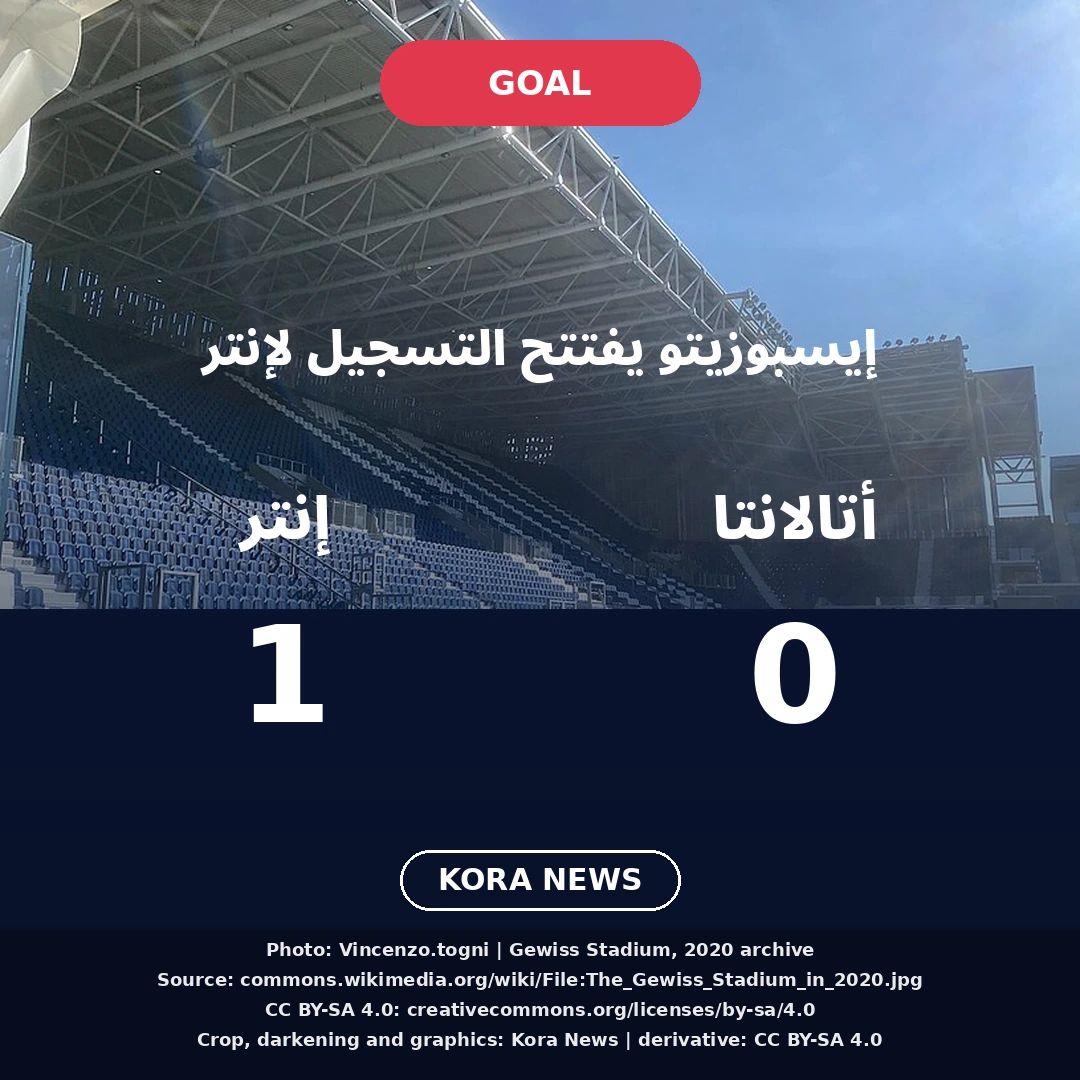
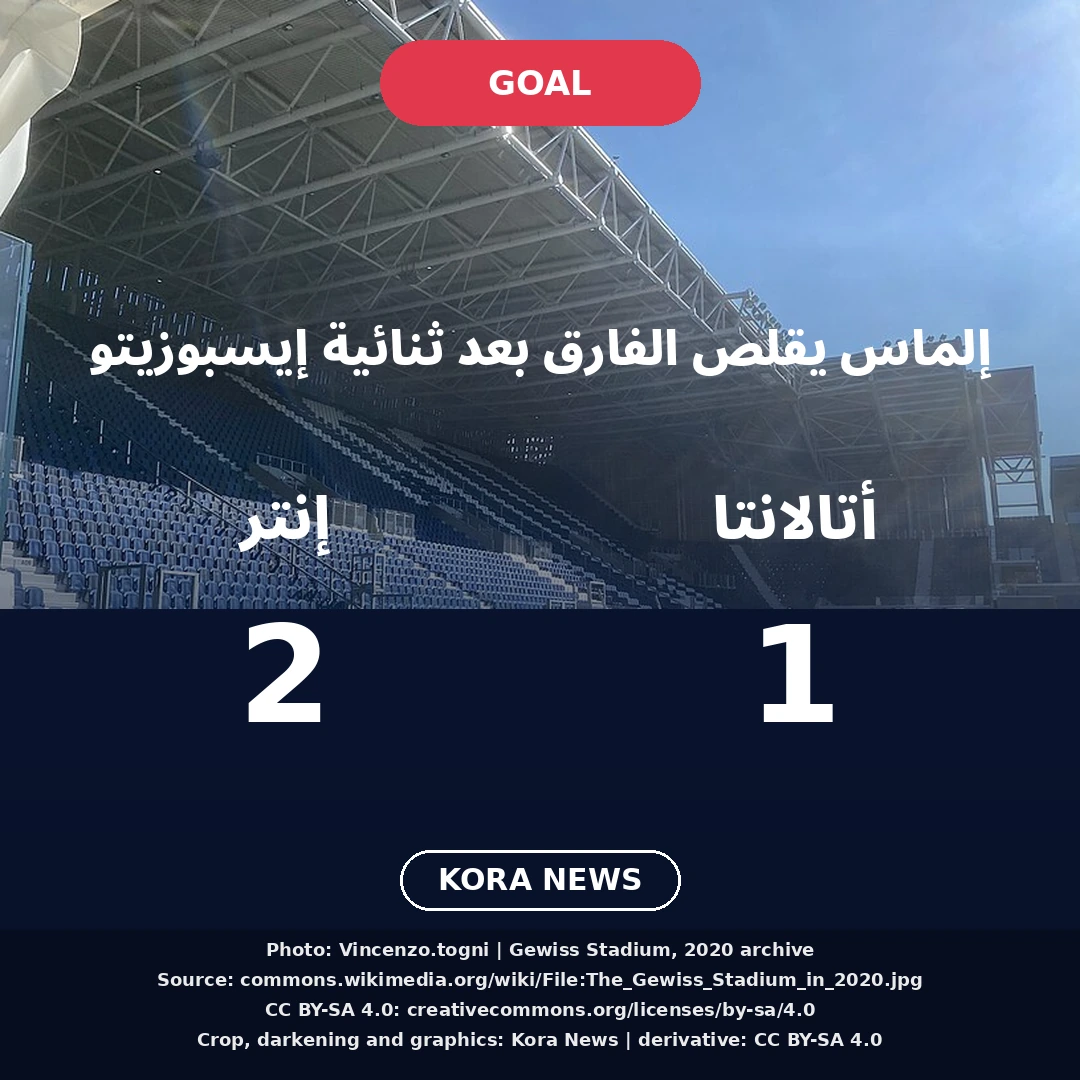
Update Atalanta Inter coverage to 1-2 after Elmas response

Changed region(s): [[0.0611, 0.3056, 0.9167, 0.3667], [0.6722, 0.5806, 0.7944, 0.6722], [0.2139, 0.5806, 0.3056, 0.6722]]

diff --git a/posts/2026-11-22-atalanta-inter-coverage.md b/posts/2026-11-22-atalanta-inter-coverage.md
@@ -1,13 +1,21 @@
 ---
-title: إيسبوزيتو يمنح إنتر التقدم على أتالانتا في بيرجامو
-date: 2026-11-22T22:07:00+02:00
+title: إلماس يقلص الفارق بعد ثنائية إيسبوزيتو لإنتر أمام أتالانتا
+date: 2026-11-22T22:24:00+02:00
 slug: atalanta-inter-coverage
 category: متابعة المباريات
-excerpt: بيو إيسبوزيتو يسجل في الدقيقة 16 ويمنح إنتر التقدم بهدف دون رد أمام مضيفه أتالانتا. لقطة موثقة عند 22:07 بتوقيت القاهرة أثناء الشوط الأول، وليست نتيجة نهائية.
+excerpt: إيسبوزيتو يسجل لإنتر في الدقيقتين 16 و32، وإلماس يرد لأتالانتا في الدقيقة 35. إنتر متقدم بهدفين مقابل هدف في لقطة موثقة عند 22:24 بتوقيت القاهرة، وليست نتيجة نهائية.
 image: atalanta-inter-coverage.webp
 ---
 
-## إنتر يتقدم بهدف إيسبوزيتو، تحديث 22:07 بتوقيت القاهرة
+## إلماس يقلص الفارق، تحديث 22:24 بتوقيت القاهرة
+
+قلص إليف إلماس الفارق لأتالانتا بهدف في الدقيقة **35**، بعدما أضاف بيو إيسبوزيتو هدفه الثاني لإنتر في الدقيقة **32**، بعد هدف الافتتاح في الدقيقة **16**.
+
+أظهرت [متابعة BBC Sport](https://www.bbc.com/sport/football/live/crq5vgg8pp48t) و[صفحة المباراة المباشرة في ESPN](https://www.espn.com/soccer/match/_/gameId/401875001) تقدم إنتر **بهدفين مقابل هدف** أمام مضيفه أتالانتا عند الدقيقة 39، في مراجعة عند **22:24 بتوقيت القاهرة يوم الأحد 22 نوفمبر 2026**.
+
+**هذه لقطة أثناء اللعب، وليست نتيجة نهائية.** أتالانتا صاحب الأرض ورصيده هدف، وإنتر الضيف ورصيده هدفان. والتحديث الأقدم أدناه يوثق مرحلة سابقة، لا النتيجة بعد هدف إلماس.
+
+## إنتر يتقدم بهدف إيسبوزيتو، تحديث سابق عند 22:07 بتوقيت القاهرة
 
 منح بيو إيسبوزيتو إنتر التقدم **بهدف دون رد** أمام مضيفه أتالانتا، بعدما سجل في الدقيقة **16**، في مواجهة الفريقين بملعب نيو بالانس أرينا في بيرجامو ضمن الدوري الإيطالي.
 
